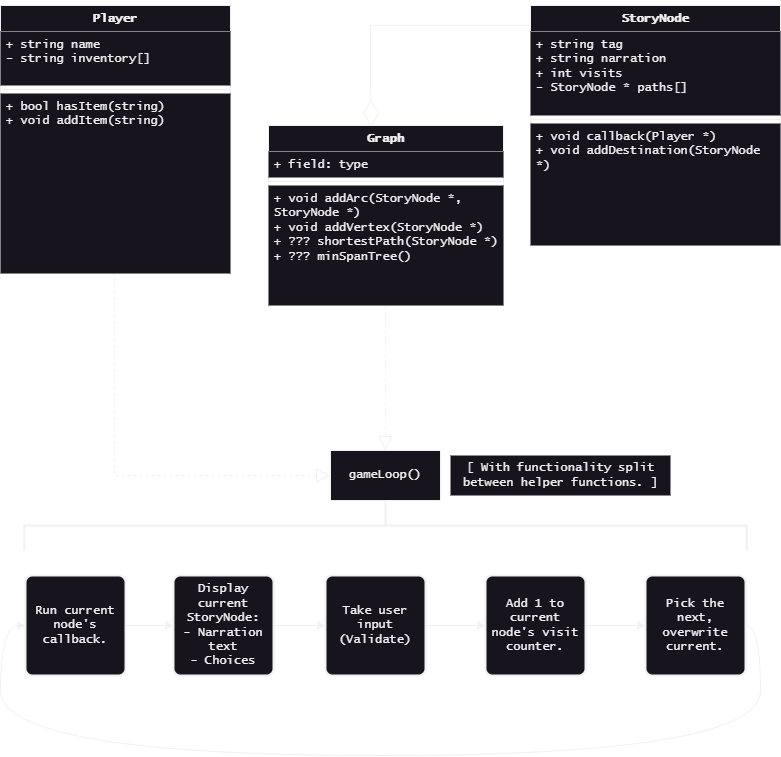
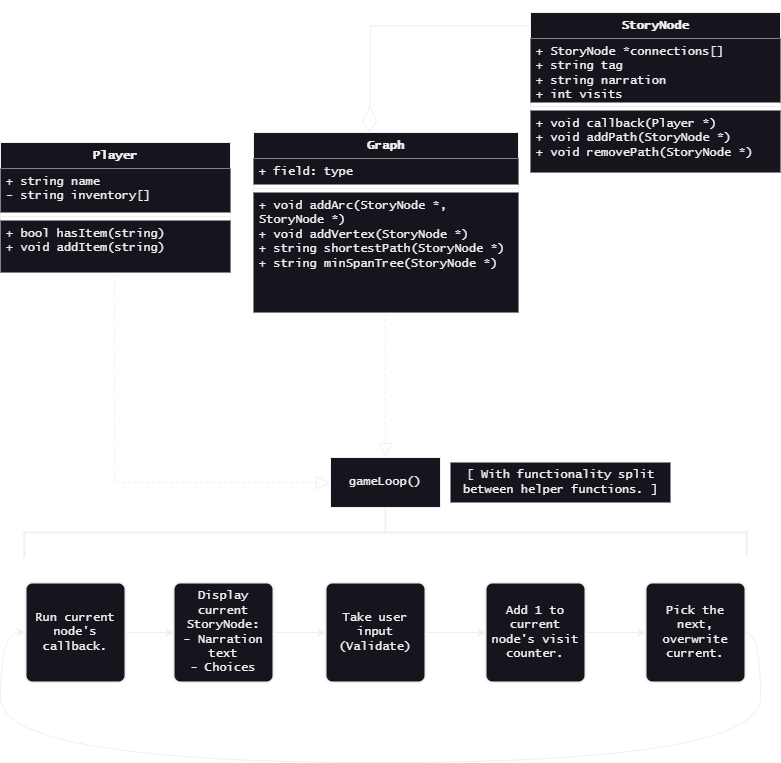
outlining graph things
i hope this doesn't count as coding! outlining the graph stuff as i work on my design. i just need to write down the rest of the tests, put them thoughtfully to words. nap time now.

also--wip uml diagram!

diff --git a/final_assignment/graph.h b/final_assignment/graph.h
@@ -1,21 +1,70 @@
 #ifndef GRAPH_HEADER
 #define GRAPH_HEADER
 
+#include <string>
 
-/// @brief Single node, up to three connections because I say so.
+/// @brief Single node, up to five connections because I say so.
 struct GraphNode {
-    int value;
-    GraphNode *connections[5]; //???? maybe
+    GraphNode *connections[5] = {nullptr};
+    
+    /**
+     * Adds a new destination to the current node.
+     * @param branch The new connection.
+     * @return No return value.
+    */
+    void addArc(GraphNode *branch);
 
+    /**
+     * Removes a branch from the current node's connections.
+     * @param branch The old collection to break.
+     * @return No return value.
+    */
+    void removeArc(GraphNode *branch);
 };
 
 
 /// @brief Graph class, manages graph nodes and subgraphs.
 class Graph {
     private:
+        // ?? how store
 
     public:
+        /**
+         * Adds a vertext to the graph.
+         * @param newVertex The new vertex to add to the graph.
+         * @return No return value.
+        */
+        void addVertex(GraphNode *newVertex);
 
+        /**
+         * Adds an arc between two nodes on the graph, from source to destination.
+         * @param source The starting node.
+         * @param destination The ending node.
+         * @return No return value.
+        */
+        void addArc(GraphNode *source, GraphNode *destination);
+
+        /**
+         * Calculates the shortest path to every (accessible) node from the given node.
+         * @param source The node to begin with.
+         * @return A string describing the shortest paths from the given node to all other accessible nodes.
+        */
+        std::string shortestPath(GraphNode *source);
+
+        /**
+         * Calculates the graph's minimum spanning tree starting at the given node.
+         * @param source The node to begin with.
+         * @return A string describing the graph's minimum spanning tree.
+        */
+        std::string minSpanTree(GraphNode *source);
 };
+
+
+namespace graphAlgorithms {
+    
+    std::string shortestPath(Graphnode *source);
+    
+    std::string minSpanTree(Graphnode *source);
+}
 
 #endif

diff --git a/in_class/june1.cpp b/in_class/june1.cpp
@@ -34,7 +34,7 @@ void callback2(StoryNode *node, Player *player) {
 }
 
 void callback3(StoryNode *node, Player *player) {
-    return;
+    node->next = &page4;
 }
 
 void callback4(StoryNode *node, Player *player) {
@@ -59,7 +59,6 @@ int main() {
 
     page1.next = &page2;
     page2.next = &page3;
-    page3.next = &page4;
     page4.next = nullptr;
 
     // set loop and run

diff --git a/final_assignment/README.md b/final_assignment/README.md
@@ -23,17 +23,19 @@ As (hopefully) illustrated by my previous points, a graph is an ideal structure 
 In practice, this becomes more complicated, as games like Zork require a player inventory system in order for the create puzzles for the player to solve. This issue, however, is more about how each story node, or the rest of the program, works. A graph solves the problem of how to create branching story paths.
 
 A simple version of a story node (with no concern for player inventory or conditional elements) might look like this:
+
 ```cpp
 struct StoryNode {
     StoryNode *paths[5]; // Setting a limit of 5 for simplicity
 
     // Narrative text
     std::string narration;
-    std::string title; // A name for the node/page/location. 
+    std::string title; // A unique name for the node/page/location. 
 };
 ```
 
 While a more complex node may look like this:
+
 ```cpp
 struct StoryNode {
     StoryNode *paths[5];
@@ -52,6 +54,7 @@ struct StoryNode {
 In both proposed node versions, I've modelled a connection between two nodes as one having a pointer to another--a one-directional relationship. This would thereby be a directioned graph, which I find appropriate for the purpose.
 
 As for unlockable routes, I believe it would be appropriate to place that logic in a node's callback like so:
+
 ```cpp
 void myCallback(StoryNode *node, Player *player) {
     if (player->hasItem("silver key")) {
@@ -74,28 +77,55 @@ Above, I've explored and outlined a couple iterations of what a `StoryNode` coul
 Written within the following files:
 
 - `graph.h` & `graph.cpp`
+    + `Graph` class.
+    + `GraphNode` struct.
 - `player.h` & `player.cpp`
-- `story_node.h` & `story_node.cpp`
+    + `Player` class.
+- `story_node.h` [& `story_node.cpp`?]
+    + `StoryNode` struct (inherits from `GraphNode`). 
 - `story.cpp`
     - Contains story contents: instances of story nodes.
 - `game.cpp`
+    + `main()`.
     - Input parsing and game loop.
-    - Contains `main()`.
 
 Informal game loop test [here](..\in_class\june1.cpp), though it acts more like browsing through a linked list. I may update this demo as I go.
 
 
 ### Tests
 
-Putting application aside and refocusing on the structure of a graph, there are a few tests I would like to run to prove graph functionality.
+Putting application aside and refocusing on the structure of a graph, there are a few tests I would like to run to prove graph functionality. 
 
-For `addVertex()`:
+The following examples us a graph pointer called `graph`, and nodes of various simple names.
 
-For `addArc()`:
 
-For `shortestPath()`:
+#### For `addVertex()`:
 
-For `minSpanTree()`:
+Create a new node with a value, and add to the graph:
+
+```cpp
+GraphNode *node = new GraphNode(1);
+
+graph->addVertex(node);
+```
+
+Repeat with multiple values, and manually print and check graph contents.
+
+
+#### For `addArc()`:
+
+Using previously created nodes, create an arc/edge between them, directioned from point A to B.
+
+```cpp
+graph->addArc(nodeA, nodeB);
+// OR...
+nodeA->addArc(nodeB);
+```
+
+
+#### For `shortestPath()`:
+
+#### For `minSpanTree()`:
 
 
 ---
